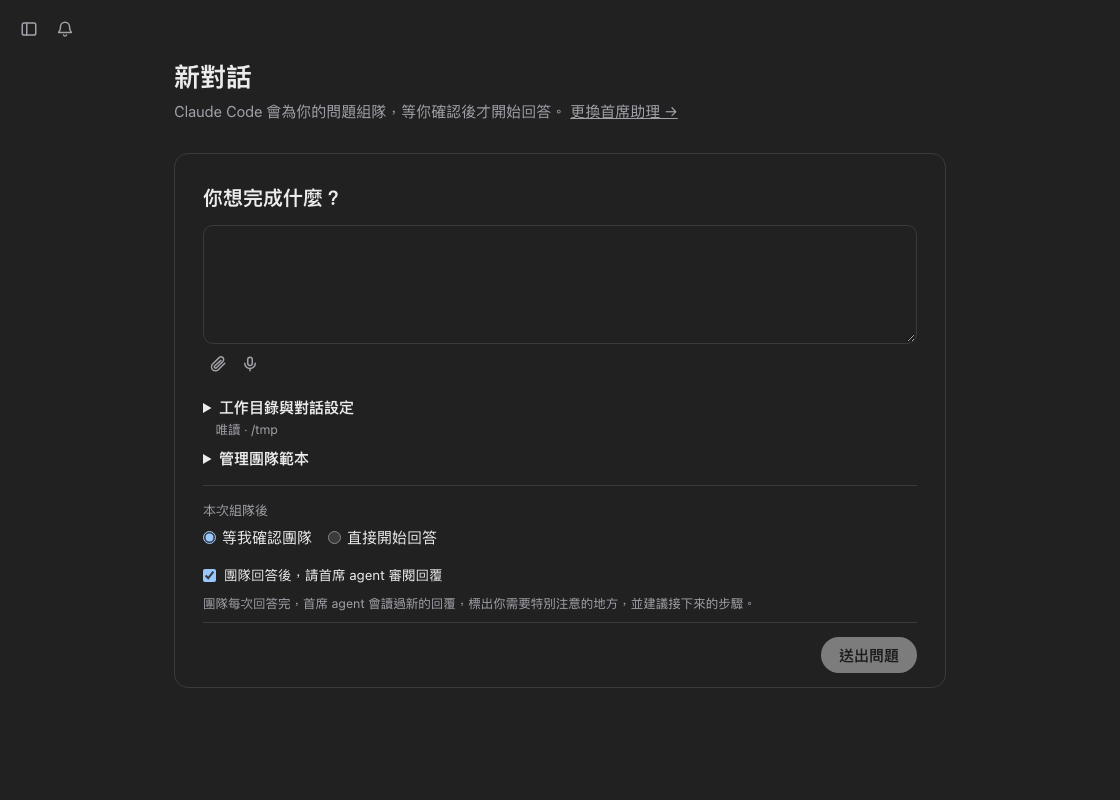
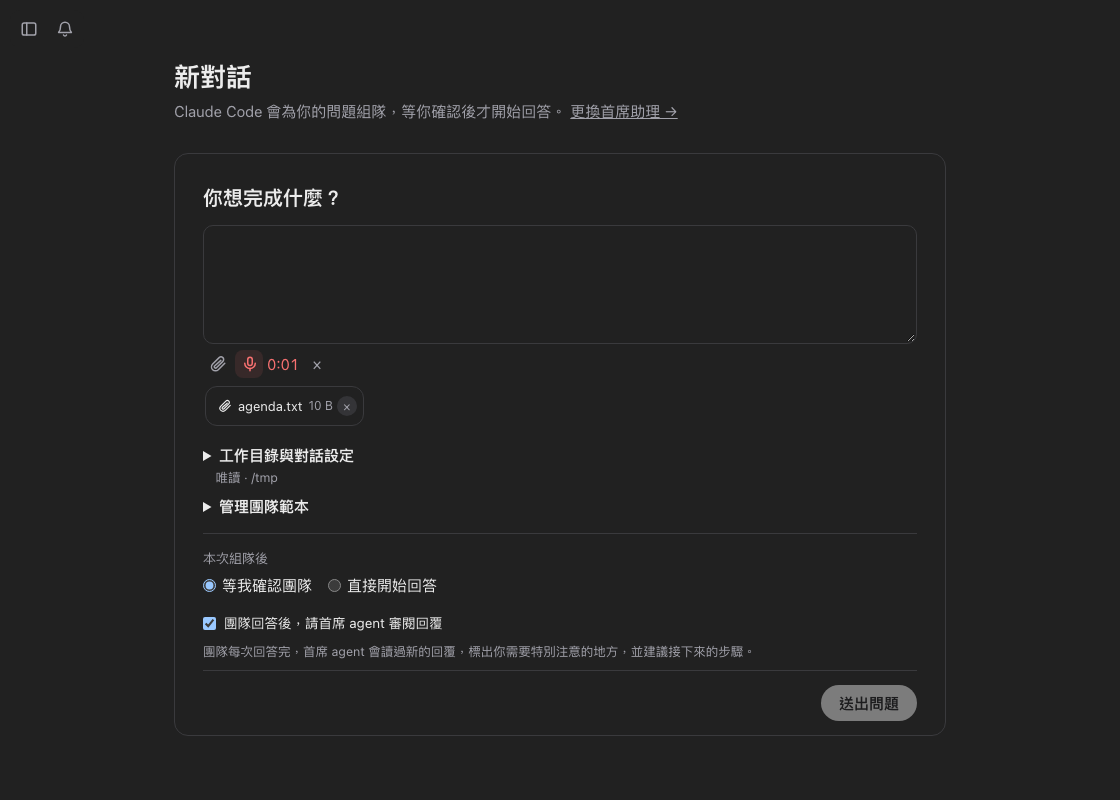
Keep attachment and microphone buttons in place when creating a chat or automation
- Show files below the controls and keep the microphone in its original slot through recording and transcription.
- Measure both buttons on desktop and phone layouts and check the voice installation badge in all three inputs.
- Refresh the English and Traditional Chinese guides, screenshots and end-to-end test descriptions.

Changed region(s): [[0.1562, 0.5, 0.6875, 0.8438], [0.7188, 0.7812, 0.8438, 0.9062], [0.2188, 0.4375, 0.2812, 0.4688]]

diff --git a/e2e/specs/voice.spec.ts b/e2e/specs/voice.spec.ts
@@ -1,6 +1,8 @@
-import type { Page } from '@playwright/test';
+import type { Locator, Page } from '@playwright/test';
 import type { VoiceJobView, VoiceStatus } from '../../src/shared/types';
 import { expect, test } from '../fixtures';
+import { en } from '../../src/web/locales/en';
+import { syntheticMicrophone } from '../support/voice';
 import { openTeamChat } from '../support/app';
 
 const MB = 1024 * 1024;
@@ -83,14 +85,22 @@ test.describe("voice input's install", () => {
     // While it runs, the app's loader (the Logo turning) beside its state; and in a chat, at the
     // microphone's top right, 12px.
     await expect(page.locator('.voice-job .login-state .logo-spinner')).toBeVisible();
+    const expectBadgeOnMic = async (mic: Locator) => {
+      const badge = mic.locator('.mic-badge .logo-spinner');
+      await expect(badge).toBeVisible();
+      const box = (await badge.boundingBox())!;
+      const button = (await mic.boundingBox())!;
+      expect(box.width).toBeCloseTo(12, 0);
+      expect(box.x + box.width).toBeCloseTo(button.x + button.width - 2, 0);
+      expect(box.y).toBeCloseTo(button.y + 2, 0);
+    };
+    for (const name of ['New chat', 'New automation']) {
+      await page.getByRole('button', { name, exact: true }).first().click();
+      await expect(page.getByRole('heading', { name, exact: true })).toBeVisible();
+      await expectBadgeOnMic(page.locator('.first-input .mic-button'));
+    }
     await openTeamChat(page, relay, [{ name: 'Claude', provider: 'claude' }]);
-    const badge = page.locator('.composer .mic-button .mic-badge .logo-spinner');
-    await expect(badge).toBeVisible();
-    const box = (await badge.boundingBox())!;
-    const mic = (await page.locator('.composer .mic-button').boundingBox())!;
-    expect(box.width).toBeCloseTo(12, 0);
-    expect(box.x + box.width).toBeCloseTo(mic.x + mic.width - 2, 0);
-    expect(box.y).toBeCloseTo(mic.y + 2, 0);
+    await expectBadgeOnMic(page.locator('.composer .mic-button'));
   });
 
   test('says which step stopped a failed install', async ({ page, relay }) => {
@@ -136,3 +146,62 @@ test('leaving New chat releases a microphone granted after navigation', async ({
   await page.evaluate(() => document.dispatchEvent(new Event('grant-test-microphone')));
   await expect.poll(trackState).toBe('ended');
 });
+
+for (const name of ['New chat', 'New automation']) {
+  test(name + ' keeps the attachment and microphone buttons in place', async ({ page, relay }) => {
+    await syntheticMicrophone(page, await relay.api<VoiceStatus>('/api/voice'));
+    await page.getByRole('button', { name, exact: true }).first().click();
+    const attach = page.getByRole('button', { name: en.composer.attach });
+    const mic = page.getByRole('button', { name: en.voice.start, exact: true });
+    const stop = page.getByRole('button', { name: en.voice.stop, exact: true });
+    const cancel = page.getByRole('button', { name: en.voice.cancel });
+    for (const width of [1280, 390]) {
+      await page.setViewportSize({ width, height: 844 });
+      await expect(mic).toBeInViewport();
+      const attachBox = await attach.boundingBox();
+      const micBox = (await mic.boundingBox())!;
+      const picker = page.waitForEvent('filechooser');
+      await attach.click();
+      const files = ['weekly-report.txt', 'release-notes.txt', 'meeting-agenda.txt', 'review-checklist.txt'];
+      await (await picker).setFiles(files.map((name) => ({ name, mimeType: 'text/plain', buffer: Buffer.from('draft') })));
+      await expect(page.getByRole('button', { name: en.composer.removeFile(files[0]!) })).toBeVisible();
+      expect(await attach.boundingBox()).toEqual(attachBox);
+      expect(await mic.boundingBox()).toEqual(micBox);
+
+      await mic.click();
+      await expect(stop).toBeVisible();
+      expect(await stop.boundingBox()).toEqual(micBox);
+      expect(await attach.boundingBox()).toEqual(attachBox);
+      await expect(cancel).toBeInViewport();
+      if (width === 1280) {
+        await cancel.click();
+      } else {
+        // Hold the response so we can measure the busy button before the transcript arrives.
+        let release!: () => void;
+        const held = new Promise<void>((resolve) => {
+          release = resolve;
+        });
+        await page.route('**/api/voice/transcribe', async (route) => {
+          await held;
+          await route.fulfill({ json: { text: 'Review the files' } });
+        });
+        await expect(page.getByRole('timer')).toHaveText(/0:0[1-9]/);
+        await stop.click();
+        try {
+          const busy = page.getByRole('button', { name: en.voice.transcribing });
+          await expect(busy).toBeDisabled();
+          expect(await busy.boundingBox()).toEqual(micBox);
+          expect(await attach.boundingBox()).toEqual(attachBox);
+        } finally {
+          release();
+        }
+        await expect(page.locator('.task-input')).toHaveValue('Review the files');
+      }
+      await expect(mic).toBeVisible();
+      expect(await mic.boundingBox()).toEqual(micBox);
+      for (const file of files) await page.getByRole('button', { name: en.composer.removeFile(file) }).click();
+      expect(await attach.boundingBox()).toEqual(attachBox);
+      expect(await mic.boundingBox()).toEqual(micBox);
+    }
+  });
+}

diff --git a/src/web/components/VoiceInput.tsx b/src/web/components/VoiceInput.tsx
@@ -18,7 +18,15 @@ type RecState = 'idle' | 'starting' | 'recording' | 'transcribing';
  * The composer's microphone. Before voice input is set up it explains what gets installed and starts
  * the install; once it is ready, press to record, press again to turn the recording into text.
  */
-export function VoiceButton({ onText, onError }: { onText: (text: string) => void; onError: (message: string) => void }) {
+export function VoiceButton({
+  onText,
+  onError,
+  fixedButton = false,
+}: {
+  onText: (text: string) => void;
+  onError: (message: string) => void;
+  fixedButton?: boolean;
+}) {
   const t = useT();
   const { status, setStatus, refresh } = useVoiceStatus();
   const [rec, setRec] = useState<RecState>('idle');
@@ -148,34 +156,48 @@ export function VoiceButton({ onText, onError }: { onText: (text: string) => voi
           ? t.voice.start
           : t.voice.setup;
 
+  const recording = rec === 'recording';
+  const cancelButton = (
+    <button type="button" className="icon-button" onClick={cancel} aria-label={t.voice.cancel} title={t.voice.cancel}>
+      ×
+    </button>
+  );
+  if (recording && !fixedButton) {
+    return (
+      <span className="voice-recording">
+        {cancelButton}
+        <button type="button" className="voice-stop" onClick={onClick} aria-label={t.voice.stop} title={t.voice.recordingHint}>
+          <span className="rec-dot" aria-hidden="true" />
+          {formatClock(seconds)}
+        </button>
+      </span>
+    );
+  }
+
   return (
     <>
-      {rec === 'recording' ? (
-        <span className="voice-recording">
-          <button type="button" className="icon-button" onClick={cancel} aria-label={t.voice.cancel} title={t.voice.cancel}>
-            ×
-          </button>
-          <button type="button" className="voice-stop" onClick={onClick} aria-label={t.voice.stop} title={t.voice.recordingHint}>
-            <span className="rec-dot" aria-hidden="true" />
+      <button
+        type="button"
+        className={`icon-button mic-button ${recording ? 'recording' : mode}`}
+        onClick={onClick}
+        disabled={rec === 'starting' || rec === 'transcribing'}
+        aria-label={recording ? t.voice.stop : label}
+        title={recording ? t.voice.recordingHint : label}
+      >
+        {rec === 'idle' || recording ? <MicIcon /> : <LogoSpinner size={16} />}
+        {mode === 'installing' && (
+          <span className="mic-badge" aria-hidden="true">
+            <LogoSpinner size={12} />
+          </span>
+        )}
+      </button>
+      {recording && (
+        <>
+          <span role="timer" className="recording-time">
             {formatClock(seconds)}
-          </button>
-        </span>
-      ) : (
-        <button
-          type="button"
-          className={`icon-button mic-button ${mode}`}
-          onClick={onClick}
-          disabled={rec !== 'idle'}
-          aria-label={label}
-          title={label}
-        >
-          {rec === 'idle' ? <MicIcon /> : <LogoSpinner size={16} />}
-          {mode === 'installing' && (
-            <span className="mic-badge" aria-hidden="true">
-              <LogoSpinner size={12} />
-            </span>
-          )}
-        </button>
+          </span>
+          {cancelButton}
+        </>
       )}
       {dialog && <VoiceSetupDialog status={status} onStatus={setStatus} onClose={() => setDialog(false)} />}
     </>

diff --git a/src/web/components/TaskInput.tsx b/src/web/components/TaskInput.tsx
@@ -11,13 +11,13 @@ interface Props {
   onFiles: (files: PendingFile[]) => void;
   saved?: SavedFiles;
   disabled?: boolean;
-  className?: string;
+  creation?: boolean;
   placeholder?: string;
   maxLength?: number;
 }
 
 /** The required question for a new chat or the message an automation will send. */
-export function TaskInput({ id, text, onText, files, onFiles, saved, disabled, ...textarea }: Props) {
+export function TaskInput({ id, text, onText, files, onFiles, saved, disabled, creation, ...textarea }: Props) {
   const ref = useRef<HTMLTextAreaElement>(null);
   const [notice, setNotice] = useState('');
   const { addFiles, removeFile, onPaste, dragging, dropZone } = useMessageFiles(files, onFiles, setNotice, saved?.files.length);
@@ -32,14 +32,26 @@ export function TaskInput({ id, text, onText, files, onFiles, saved, disabled, .
       field.setSelectionRange(next.caret, next.caret);
     });
   };
+  const tray = <AttachmentTray files={files} removeFile={removeFile} saved={saved} />;
   return (
     <fieldset disabled={disabled} className={dragging ? 'first-input dragging' : 'first-input'} {...(disabled ? {} : dropZone)}>
-      <textarea {...textarea} id={id} ref={ref} required rows={4} value={text} onChange={(e) => onText(e.target.value)} onPaste={onPaste} />
-      <AttachmentTray files={files} removeFile={removeFile} saved={saved} />
+      <textarea
+        {...textarea}
+        className={creation ? 'task-input' : undefined}
+        id={id}
+        ref={ref}
+        required
+        rows={4}
+        value={text}
+        onChange={(e) => onText(e.target.value)}
+        onPaste={onPaste}
+      />
+      {!creation && tray}
       <div className="first-input-tools">
         <AttachmentPicker addFiles={addFiles} />
-        <VoiceButton onError={setNotice} onText={insertVoice} />
+        <VoiceButton fixedButton={creation} onError={setNotice} onText={insertVoice} />
       </div>
+      {creation && tray}
       {notice && (
         <p role="alert" className="error-line">
           {notice}

diff --git a/e2e/specs/schedule.spec.ts b/e2e/specs/schedule.spec.ts
@@ -1,28 +1,11 @@
 import { mkdirSync, utimesSync, writeFileSync } from 'node:fs';
 import { createServer } from 'node:net';
 import { join } from 'node:path';
-import type { Page } from '@playwright/test';
 import { expect, test } from '../fixtures';
 import type { Conversation, VoiceStatus } from '../../src/shared/types';
 import { en } from '../../src/web/locales/en';
 import { confirmTeam, finishedReply, openTeamChat, send } from '../support/app';
-
-/** A tone stands in for a microphone so the browser records without a physical device. */
-async function syntheticMicrophone(page: Page, status: VoiceStatus) {
-  await page.evaluate(() => {
-    navigator.mediaDevices.getUserMedia = async () => {
-      const ctx = new AudioContext();
-      const tone = ctx.createOscillator();
-      const dest = ctx.createMediaStreamDestination();
-      tone.connect(dest);
-      tone.start();
-      await ctx.resume();
-      return dest.stream;
-    };
-  });
-  await page.route('**/api/voice', (route) => route.fulfill({ json: { ...status, ready: true } }));
-  await page.route('**/api/voice/prepare', (route) => route.fulfill({ json: { ok: true } }));
-}
+import { syntheticMicrophone } from '../support/voice';
 
 test.describe('schedules', () => {
   test("a chat's schedule is saved, and running it once sends its message to the team", async ({ page, relay }) => {
@@ -297,7 +280,7 @@ test.describe('schedules', () => {
     await task.fill('Summarize');
     await mic.click();
     const stop = page.getByRole('button', { name: en.voice.stop });
-    await expect(stop).toHaveText(/0:0[1-9]/);
+    await expect(page.getByRole('timer')).toHaveText(/0:0[1-9]/);
     await stop.click();
     await expect(task).toHaveValue('Summarize merged pull requests');
     await goal.fill('All changes reviewed');

diff --git a/e2e/support/voice.ts b/e2e/support/voice.ts
@@ -1,0 +1,19 @@
+import type { Page } from '@playwright/test';
+import type { VoiceStatus } from '../../src/shared/types';
+
+/** A tone stands in for a microphone so the browser records without a physical device. */
+export async function syntheticMicrophone(page: Page, status: VoiceStatus) {
+  await page.evaluate(() => {
+    navigator.mediaDevices.getUserMedia = async () => {
+      const ctx = new AudioContext();
+      const tone = ctx.createOscillator();
+      const dest = ctx.createMediaStreamDestination();
+      tone.connect(dest);
+      tone.start();
+      await ctx.resume();
+      return dest.stream;
+    };
+  });
+  await page.route('**/api/voice', (route) => route.fulfill({ json: { ...status, ready: true } }));
+  await page.route('**/api/voice/prepare', (route) => route.fulfill({ json: { ok: true } }));
+}

diff --git a/src/web/styles.css b/src/web/styles.css
@@ -2480,6 +2480,23 @@ details.sub .model-picker {
   display: flex;
   gap: 4px;
 }
+.first-task .first-input-tools {
+  align-items: center;
+}
+.first-input-tools + .attach-tray {
+  margin-top: 6px;
+}
+.first-input-tools .mic-button {
+  position: relative;
+}
+.first-input-tools .mic-button.recording {
+  color: var(--danger);
+  background: color-mix(in srgb, var(--danger) 10%, var(--bg));
+}
+.recording-time {
+  color: var(--danger);
+  font-variant-numeric: tabular-nums;
+}
 .first-input.dragging .task-input {
   outline: 2px dashed var(--text);
 }

diff --git a/src/web/components/ScheduleForm.tsx b/src/web/components/ScheduleForm.tsx
@@ -200,7 +200,7 @@ export function ScheduleForm({
           {creation ? t.newSchedule.task : t.schedule.message}
         </label>
         <TaskInput
-          className={creation ? 'task-input' : undefined}
+          creation={Boolean(creation)}
           id={messageId}
           text={draft.text}
           onText={(text) => onEdit({ text })}

diff --git a/src/web/components/NewChat.tsx b/src/web/components/NewChat.tsx
@@ -175,7 +175,7 @@ export function NewChat({ providers, catalog, draft, onDraft, busy, setBusy, err
       </label>
       <TaskInput
         id="first-question"
-        className="task-input"
+        creation
         text={draft.question}
         onText={(question) => onDraft({ ...draft, question })}
         files={draft.files}

diff --git a/docs/user-guide.md b/docs/user-guide.md
@@ -417,9 +417,9 @@ To browse AgentsView from your phone too, see [Use it from your phone](remote-ac
 
 ## 3. Start a chat — New chat and templates
 
-Click **Start a new chat** on the home page, even with the sidebar closed, or choose **New chat** in the sidebar. Type your question or use the microphone to dictate it. **Send question** becomes available once the field contains text. You can attach files alongside the question. Sending opens the chat and starts team design. Under **Workspace and chat settings**, you can change the working folders, file permission, approval policy and title. The [lead review](#lead-review) checkbox below the team confirmation choices starts checked. **Once the team is ready** shows whether the team will wait for your confirmation or answer right away. The next chat remembers that choice. **Send question** stays at the bottom of the card. The team choices and review setting scroll with the other fields. A down arrow appears when there is more below. Click it to scroll. The question, attachments, title and settings stay in this window while you visit other pages. If creation finishes while you are in Settings, **Open created chat** opens the result. If it fails, return to the draft to see the error and retry. **Change the lead agent** opens Settings, where **Return to new chat draft** takes you back. Open **Manage team templates** to inspect or edit a template.
+Click **Start a new chat** on the home page, even with the sidebar closed, or choose **New chat** in the sidebar. Type your question or use the microphone to dictate it. **Send question** becomes available once the field contains text. Selected files appear below the paperclip and microphone. While dictating, click the microphone again to transcribe or use the × beside the timer to cancel. Sending opens the chat and starts team design. Under **Workspace and chat settings**, you can change the working folders, file permission, approval policy and title. The [lead review](#lead-review) checkbox below the team confirmation choices starts checked. **Once the team is ready** shows whether the team will wait for your confirmation or answer right away. The next chat remembers that choice. **Send question** stays at the bottom of the card. The team choices and review setting scroll with the other fields. A down arrow appears when there is more below. Click it to scroll. The question, attachments, title and settings stay in this window while you visit other pages. If creation finishes while you are in Settings, **Open created chat** opens the result. If it fails, return to the draft to see the error and retry. **Change the lead agent** opens Settings, where **Return to new chat draft** takes you back. Open **Manage team templates** to inspect or edit a template.
 
-![New chat on a phone with the microphone, attachment picker and disabled Send question button](media/new-chat-en.png)
+![Dictating a new question on a phone with an agenda attached below the controls](media/new-chat-en.png)
 
 You don't pick a team for the chat: the lead agent chooses one for each question (see [Auto team](#auto-team)), from the [templates](#templates) on this page, where you design teams.
 
@@ -617,7 +617,7 @@ To have the lead agent make the change, say what you want in **Ask the lead agen
 
 **Automation** in the header sends the team a message as if you had sent it, in this conversation or in a new one each time, whenever something starts it: you (**Run once now**), set times, something that happens (a new mail, an event about to begin, a pull request or a failed CI run on GitHub, a file that appears or changes), or a program that calls its webhook. For example "@Reviewer look at the pull requests merged yesterday and list the risks" every weekday at 09:00, "Triage this mail and draft a reply" when a mail from a customer arrives, or "CI failed: find out why" when CI calls it.
 
-To start from an automation instead of a chat, click **New automation**, the button with a lightning bolt beside **New chat** in the sidebar (its text is **Automation** in English, where the whole name does not fit). Type or dictate what the team should do. You can attach files using the paperclip, paste or drag and drop. Every run gets its own copy, including runs that open a new chat. Add or remove files in the chat’s **Automation** settings to change what future runs receive. Optionally add a **Goal to track**, then choose **When** it runs. Open **Webhooks and run settings** to create a webhook, start a new chat each time, or change unattended and missed-run behavior. **Workspace and chat settings** shows the working directories, permissions and optional title. The [lead review](#lead-review) checkbox is visible below the team confirmation choices. Visiting lead or connector settings keeps your draft while the app is open. If creation finishes there, **Open created automation** opens its chat and any newly created webhook. Above **Once the team is ready**, expand **Manage team templates** to edit the same templates available in New chat. Choose whether to review the team or accept it automatically, then click **Create automation**. Its chat opens for team design. The task runs when triggered. **Create automation** stays at the bottom of the card while the settings above it scroll, including team confirmation and lead review. A time that comes due while the team is being designed or waits for you is tried again for up to 30 minutes, then skipped. If the design was stopped, the automation window offers **Have the lead agent design the team**.
+To start from an automation instead of a chat, click **New automation**, the button with a lightning bolt beside **New chat** in the sidebar (its text is **Automation** in English, where the whole name does not fit). Type or dictate what the team should do. Pick files with the paperclip, paste them or drag them into the field. They appear below the paperclip and microphone. Every run gets its own copy, including runs that open a new chat. Add or remove files in the chat’s **Automation** settings to change what future runs receive. Optionally add a **Goal to track**, then choose **When** it runs. Open **Webhooks and run settings** to create a webhook, start a new chat each time, or change unattended and missed-run behavior. **Workspace and chat settings** shows the working directories, permissions and optional title. The [lead review](#lead-review) checkbox is visible below the team confirmation choices. Visiting lead or connector settings keeps your draft while the app is open. If creation finishes there, **Open created automation** opens its chat and any newly created webhook. Above **Once the team is ready**, expand **Manage team templates** to edit the same templates available in New chat. Choose whether to review the team or accept it automatically, then click **Create automation**. Its chat opens for team design. The task runs when triggered. **Create automation** stays at the bottom of the card while the settings above it scroll, including team confirmation and lead review. A time that comes due while the team is being designed or waits for you is tried again for up to 30 minutes, then skipped. If the design was stopped, the automation window offers **Have the lead agent design the team**.
 
 ![New automation with a dictated or typed message and an attached report](media/new-automation-en.png)
 

diff --git a/e2e/README.md b/e2e/README.md
@@ -6,7 +6,7 @@ What the end-to-end tests (`npm run test:e2e`) try today, area by area. They dri
 
 How they work, how to run one and how to write one is in the developer guide, [End-to-end tests](../docs/developer-guide.md#end-to-end-tests). This page is the list of scenarios: when you add, change or remove an end-to-end test, change this page and [its Chinese copy](README.zh-TW.md) in the same commit ([AGENTS.md](../AGENTS.md), "Documentation").
 
-There are 517 tests in 39 spec files, in each browser that runs them (Chromium by default). Some run only on some systems, or only where Harness Relay's own sandbox works: see [Platforms and browsers](#platforms-and-browsers).
+There are 519 tests in 39 spec files, in each browser that runs them (Chromium by default). Some run only on some systems, or only where Harness Relay's own sandbox works: see [Platforms and browsers](#platforms-and-browsers).
 
 ## Running them
 
@@ -67,7 +67,7 @@ In the tables below, the CLI column says which CLIs a test runs with: **each** m
 | [Plan usage](#plan-usage) | [`usage.spec.ts`](specs/usage.spec.ts) | 9 | [User guide → Plan usage](../docs/user-guide.md#plan-usage), [Architecture → Providers](../docs/architecture.md#providers-status-login-and-models) |
 | [What each CLI loads by itself, and Grok's trust](#what-each-cli-loads-by-itself-and-groks-trust) | [`native.spec.ts`](specs/native.spec.ts) | 5 | [User guide → What each CLI loads by itself](../docs/user-guide.md#what-each-cli-loads-by-itself), [Architecture → What each CLI loads by itself](../docs/architecture.md#what-each-cli-loads-by-itself) |
 | [Agent sessions and AgentsView](#agent-sessions-and-agentsview) | [`sessions.spec.ts`](specs/sessions.spec.ts) | 10 | [User guide → Agent sessions](../docs/user-guide.md#agent-sessions-the-clis-own-folder-and-agentsview), [Architecture → Agent homes and AgentsView](../docs/architecture.md#agent-homes-and-agentsview) |
-| [Voice input's install](#voice-inputs-install) | [`voice.spec.ts`](specs/voice.spec.ts) | 3 | [User guide → Voice input](../docs/user-guide.md#voice-input), [Architecture → Voice input](../docs/architecture.md#voice-input) |
+| [Voice input's install](#voice-inputs-install) | [`voice.spec.ts`](specs/voice.spec.ts) | 5 | [User guide → Voice input](../docs/user-guide.md#voice-input), [Architecture → Voice input](../docs/architecture.md#voice-input) |
 | [Reporting a problem](#reporting-a-problem) | [`report.spec.ts`](specs/report.spec.ts) | 7 | [User guide → Reporting a problem](../docs/user-guide.md#reporting-a-problem), [Architecture → Reporting a problem](../docs/architecture.md#reporting-a-problem) |
 | [The guided tour and the theme](#the-guided-tour-and-the-theme) | [`appearance.spec.ts`](specs/appearance.spec.ts) | 10 | [User guide → Language and the guided tour](../docs/user-guide.md#language-and-the-guided-tour) |
 | [Notifications and sound](#notifications-and-sound) | [`notifications.spec.ts`](specs/notifications.spec.ts) | 6 | [User guide → Notifications and sound](../docs/user-guide.md#notifications-and-sound), [Notification inbox](../docs/user-guide.md#notification-inbox), [Architecture → Notifications](../docs/architecture.md#notifications) |
@@ -548,8 +548,9 @@ In the tables below, the CLI column says which CLIs a test runs with: **each** m
 
 | Scenario | What is checked |
 | --- | --- |
+| New chat and New automation keep the attachment and microphone buttons in place (one test each) | On desktop and phone widths, compare both buttons’ positions and sizes before and after selecting multiple files, while recording, after cancellation, during transcription and after removing the files. |
 | Leaving New chat before microphone permission is granted | Granting the synthetic microphone after opening lead settings releases its track. |
-| The install shows its steps in line, says their state to screen readers, and its download in the bar | The steps in a row, the current one marked `aria-current`, the download's percent and the bar's fill; the app's loader beside the install's state, and in a chat at the microphone's top right, 12px. |
+| The install shows its steps in line, says their state to screen readers, and its download in the bar | The steps in a row, the current one marked `aria-current`, the download's percent and the bar's fill; the app's loader beside the install's state, and at the microphone's top right (12px) in New chat, New automation and the chat composer. |
 | A failed install says which step stopped | The step it stopped at is shown as failed. |
 
 ## The guided tour and the theme
